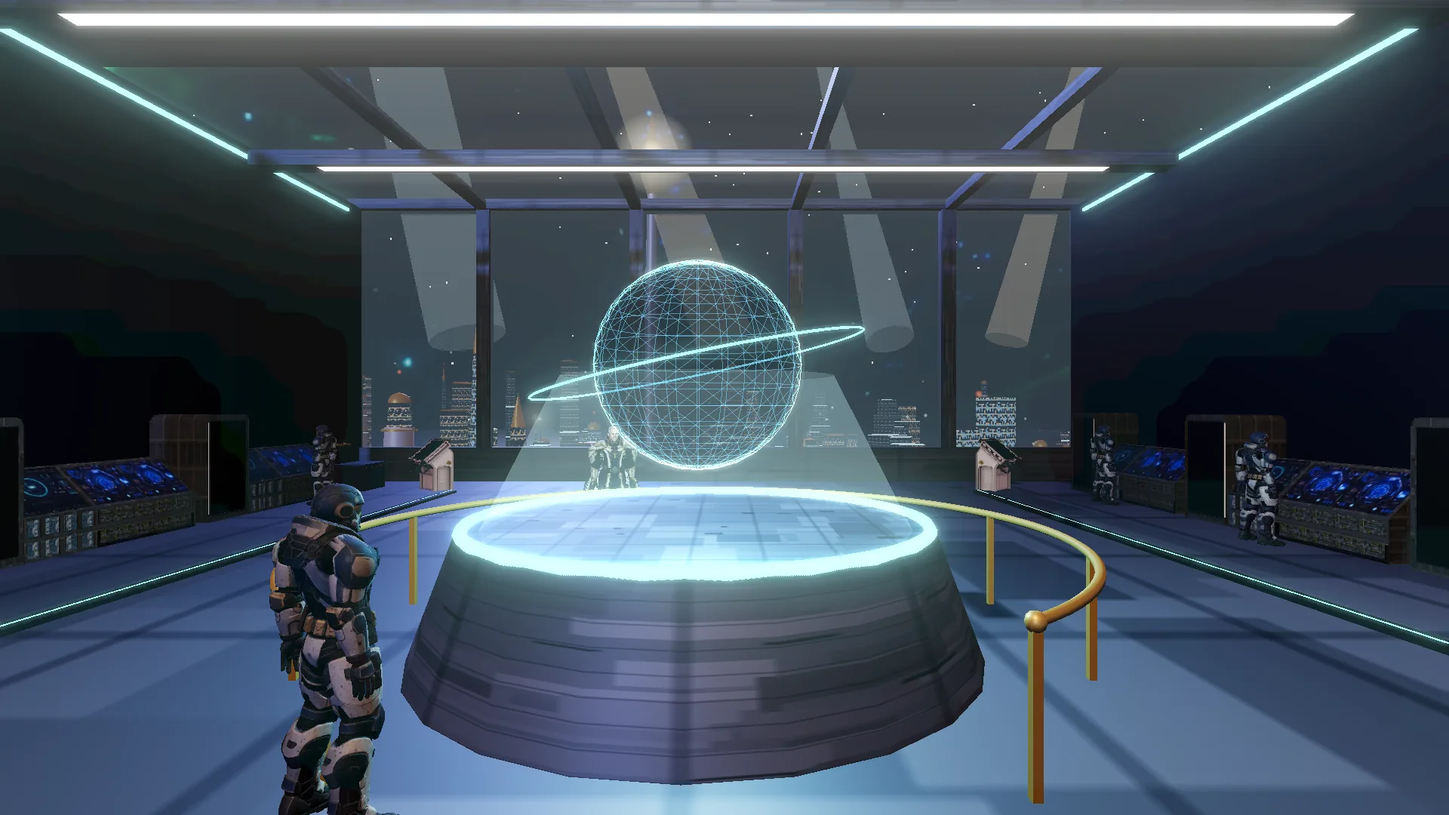
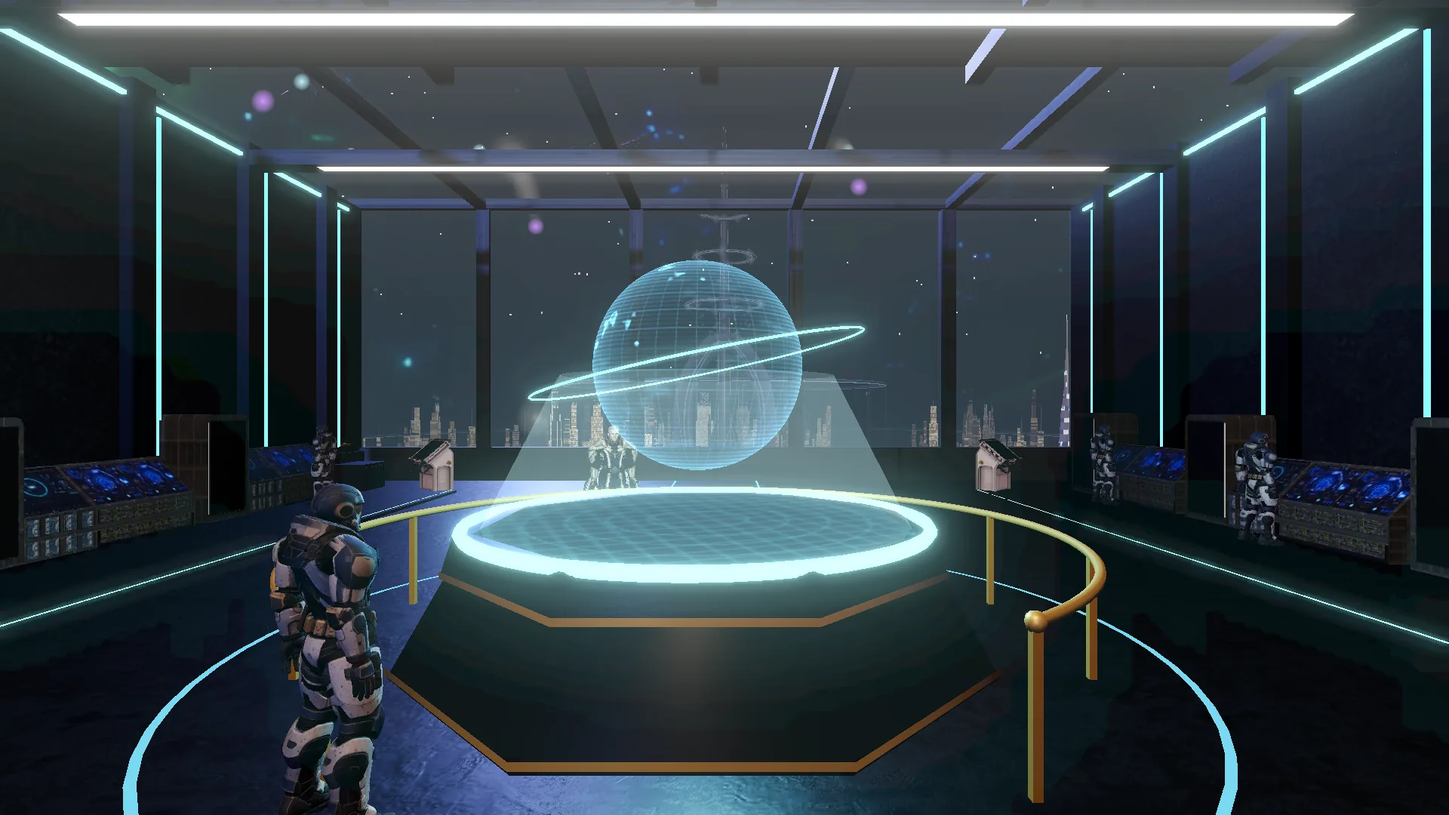
Command deck room overhaul and new briefing backdrop
The command room seen between missions is rebuilt: photo-metal deck
with light lines, ribbed walls with Keeper-blue light, a coffered
ceiling, a stepped octagonal holotable, and Elyra as a hologram in
place of the wireframe ball. The briefing backdrop every loading
screen uses is re-baked from the new room, with the real city and
Spear through the window.

Claude-Session: https://claude.ai/code/session_011EBjg3EFR7hNV2rmgHWN7i

diff --git a/js/origin/04-story.js b/js/origin/04-story.js
@@ -85,12 +85,33 @@ function buildDeck(){
   const metal=new THREE.MeshStandardMaterial({map:panelTex,color:C(0x8a96a8),roughness:.55,metalness:.5}),dark=new THREE.MeshStandardMaterial({color:C(0x1a2030),roughness:.6,metalness:.4});
   const gold=new THREE.MeshStandardMaterial({color:C(0xd9b25a),roughness:.3,metalness:.85}),cyan=new THREE.MeshBasicMaterial({color:C(0x7fe3ff).multiplyScalar(2),toneMapped:false});
   const box=(w,h,d,x,y,z,mat)=>{const m=new THREE.Mesh(new THREE.BoxGeometry(w,h,d),mat);m.position.set(X+x,y,z);m.castShadow=m.receiveShadow=true;G.add(m);return m;};
+  /* Nov 9 (Bryce: "the command room between missions hasn't changed"): the room rebuilt in the photo metals. A dark polished deck of
+     Metal015 plates with light lines set in it, walls of Metal039 panels between ribs with Keeper-blue light running up them, a
+     coffered ceiling, a stepped holotable with gold bands and a lit glass top, and Elyra as a hologram over it (its oceans, coasts and
+     cloud in light, scanlines, a bright rim) in place of the wireframe ball. The searchlight cones outside are gone (they read as grey
+     pipes through the glass). Same layout: everyone stands where they stood, the doors and consoles are where they were. */
+  const dtx=(n,rx,ry,srgb)=>{const t=new THREE.TextureLoader().load('img/tex/'+n+'-'+(coarse?'phone':'pc')+'.jpg');t.wrapS=t.wrapT=THREE.RepeatWrapping;t.repeat.set(rx,ry);t.anisotropy=8;if(srgb)t.encoding=THREE.sRGBEncoding;return t;};
+  const floorM=new THREE.MeshStandardMaterial({color:C(0x5a6272),map:dtx('metal015',7,5.5,1),normalMap:dtx('metal015-n',7,5.5),roughness:.32,metalness:.65});
+  const wallM=new THREE.MeshStandardMaterial({color:C(0x66707f),map:dtx('metal039',6,2,1),normalMap:dtx('metal039-n',6,2),roughness:.5,metalness:.55});
+  const ceilM=new THREE.MeshStandardMaterial({color:C(0x2a3040),map:dtx('metal039',5,5,1),normalMap:dtx('metal039-n',5,5),roughness:.55,metalness:.5});
+  const ribM=new THREE.MeshStandardMaterial({color:C(0x1a1f2a),roughness:.35,metalness:.8});
   // the room: floor, ceiling, back and side walls, and a tall window wall facing the bay
-  box(28,.4,22,0,-.2,0,metal);box(19,.4,22,-4.5,8.2,0,dark);   // the ceiling stops short of the window: the last 9 m is glass, so the sky shows over the city
+  box(28,.4,22,0,-.2,0,floorM);box(19,.4,22,-4.5,8.2,0,ceilM);   // the ceiling stops short of the window: the last 9 m is glass, so the sky shows over the city
   for(const z of[-7,-2.4,2.4,7])box(9,.25,.3,9.5,8.25,z,metal);{const sl=new THREE.Mesh(new THREE.PlaneGeometry(9,22),new THREE.MeshBasicMaterial({color:C(0x7fb6ff),transparent:true,opacity:.05,depthWrite:false,side:THREE.DoubleSide}));sl.rotation.x=Math.PI/2;sl.position.set(X+9.5,8.3,0);G.add(sl);}
-  box(.6,8.4,22,-14,4,0,dark);for(const z of[-11,11])box(28,8.4,.6,0,4,z,dark);
+  box(.6,8.4,22,-14,4,0,wallM);for(const z of[-11,11])box(28,8.4,.6,0,4,z,wallM);
   box(.6,1,22,14,.5,0,metal);box(.6,.3,22,14,8.3,0,metal);for(const z of[-7,-2.4,2.4,7])box(.4,8.4,.4,14,4.2,z,metal);
   for(const z of[-10.6,10.6])box(26,.08,.08,0,7.9,z,cyan);box(.08,.08,20,-13.6,7.9,0,cyan);
+  // ribs on the side and back walls with Keeper-blue light running up between them, a dark wainscot along the foot of every wall
+  {const strip=new THREE.MeshBasicMaterial({color:C(0x7fe3ff).multiplyScalar(1.3),toneMapped:false});
+   for(const z of[-10.62,10.62])for(let x=-12;x<=12;x+=3){if(Math.abs(x+8.75)<2.6&&z>0)continue;box(.5,8.2,.3,x,4.1,z,ribM);const l=box(.06,6.6,.05,x+.32,4.4,z-Math.sign(z)*.14,strip);l.castShadow=false;}
+   for(const z of[-10.2,5.2,8.5]){box(.3,8.2,.5,-13.62,4.1,z,ribM);}
+   for(const z of[-10.6,10.6])box(28,.9,.12,0,.45,z,ribM);box(.12,.9,22,-13.6,.45,0,ribM);
+   // the coffered ceiling: beams across between the light runs
+   for(let z=-9;z<=9;z+=4.5)box(19,.3,.3,-4.5,7.85,z,ribM);
+   // light lines in the deck: a ring round the table and two runs to the window
+   const fl=new THREE.MeshBasicMaterial({color:C(0x7fe3ff).multiplyScalar(.9),toneMapped:false});
+   const ring=new THREE.Mesh(new THREE.RingGeometry(4.1,4.16,64),fl);ring.rotation.x=-Math.PI/2;ring.position.set(X,.01,0);G.add(ring);
+   for(const z of[-1.2,1.2]){const r=new THREE.Mesh(new THREE.PlaneGeometry(9.6,.05),fl);r.rotation.x=-Math.PI/2;r.position.set(X+9,.01,z);G.add(r);}}
   // consoles along the side walls, with screens, and a Remnant emblem on the back wall
   const SIDE_DOOR={x:-8.75,z:11};   // (Oct 25) the second Keeper door, in the right-hand wall where the back console stood (no one worked it)
   const consoleParts=[];   // the code-built consoles: stand-ins until Bryce's supercomputers arrive (below), kept if the download fails
@@ -98,11 +119,30 @@ function buildDeck(){
   const emb=new THREE.Mesh(new THREE.TorusGeometry(1.6,.12,6,6),gold);emb.position.set(X-13.6,5,0);emb.rotation.y=Math.PI/2;G.add(emb);
   const glass=new THREE.Mesh(new THREE.PlaneGeometry(22,7.4),new THREE.MeshBasicMaterial({color:C(0x7fb6ff),transparent:true,opacity:.07,depthWrite:false}));glass.rotation.y=-Math.PI/2;glass.position.set(X+14,4.6,0);G.add(glass);
   // the holo table and the projection turning over it
-  const tbl=new THREE.Mesh(new THREE.CylinderGeometry(2.2,2.6,1.1,24),metal);tbl.position.set(X,.55,0);tbl.castShadow=true;G.add(tbl);
+  const tbl=new THREE.Mesh(new THREE.CylinderGeometry(2.25,2.7,.8,8),ribM);tbl.position.set(X,.4,0);tbl.rotation.y=Math.PI/8;tbl.castShadow=true;G.add(tbl);
+  {const t2=new THREE.Mesh(new THREE.CylinderGeometry(2.2,2.3,.32,8),wallM);t2.position.set(X,.96,0);t2.rotation.y=Math.PI/8;G.add(t2);
+   for(const [r,y] of[[2.72,.06],[2.31,.8]]){const b=new THREE.Mesh(new THREE.CylinderGeometry(r,r,.06,8,1,true),gold);b.position.set(X,y,0);b.rotation.y=Math.PI/8;G.add(b);}
+   const gt=document.createElement('canvas');gt.width=gt.height=256;const gx=gt.getContext('2d');gx.fillStyle='#02101a';gx.fillRect(0,0,256,256);gx.strokeStyle='rgba(127,227,255,.35)';gx.lineWidth=1;
+   for(let i=8;i<256;i+=16){gx.beginPath();gx.moveTo(i,0);gx.lineTo(i,256);gx.stroke();gx.beginPath();gx.moveTo(0,i);gx.lineTo(256,i);gx.stroke();}
+   for(let r=30;r<128;r+=24){gx.beginPath();gx.arc(128,128,r,0,7);gx.stroke();}
+   const top=new THREE.Mesh(new THREE.CircleGeometry(2.05,8),new THREE.MeshBasicMaterial({map:new THREE.CanvasTexture(gt),color:C(0x9fefff),toneMapped:false}));top.rotation.set(-Math.PI/2,0,Math.PI/8);top.position.set(X,1.125,0);G.add(top);}
   const rim=new THREE.Mesh(new THREE.TorusGeometry(2.15,.06,6,48),cyan);rim.rotation.x=Math.PI/2;rim.position.set(X,1.12,0);G.add(rim);
   const holo=new THREE.Group();holo.position.set(X,2.6,0);G.add(holo);
-  const pl=new THREE.Mesh(new THREE.SphereGeometry(1,24,16),new THREE.MeshBasicMaterial({color:C(0x7fd8ff),wireframe:true,transparent:true,opacity:.55,blending:THREE.AdditiveBlending,depthWrite:false,toneMapped:false}));holo.add(pl);
-  const core=new THREE.Mesh(new THREE.SphereGeometry(.96,24,16),new THREE.MeshBasicMaterial({color:C(0x0a1830),transparent:true,opacity:.7}));holo.add(core);
+  // Elyra in light: land and coast from noise on the sphere (no seam), cloud bands, scanlines, a bright rim. Its colour (pl.material.color)
+  // still turns red when the signal is lost
+  const holoU={col:{value:C(0x7fd8ff)},t:{value:0}};
+  const holoM=new THREE.ShaderMaterial({uniforms:holoU,transparent:true,depthWrite:false,blending:THREE.AdditiveBlending,
+    vertexShader:'varying vec3 vP;varying vec3 vN;varying vec3 vV;varying float vY;void main(){vP=position;vN=normalize(normalMatrix*normal);vec4 m=modelViewMatrix*vec4(position,1.);vV=normalize(-m.xyz);vY=(modelMatrix*vec4(position,1.)).y;gl_Position=projectionMatrix*m;}',
+    fragmentShader:'uniform vec3 col;uniform float t;varying vec3 vP;varying vec3 vN;varying vec3 vV;varying float vY;'+
+      'float h(vec3 p){p=fract(p*.3183099+.1);p*=17.;return fract(p.x*p.y*p.z*(p.x+p.y+p.z));}'+
+      'float n(vec3 x){vec3 i=floor(x),f=fract(x);f=f*f*(3.-2.*f);return mix(mix(mix(h(i),h(i+vec3(1,0,0)),f.x),mix(h(i+vec3(0,1,0)),h(i+vec3(1,1,0)),f.x),f.y),mix(mix(h(i+vec3(0,0,1)),h(i+vec3(1,0,1)),f.x),mix(h(i+vec3(0,1,1)),h(i+vec3(1,1,1)),f.x),f.y),f.z);}'+
+      'float fb(vec3 p){return .5*n(p)+.25*n(p*2.03)+.125*n(p*4.1)+.0625*n(p*8.3);}'+
+      'void main(){vec3 p=normalize(vP);float l=fb(p*2.6+4.);float land=smoothstep(.55,.57,l);float coast=smoothstep(.53,.56,l)-smoothstep(.56,.59,l);'+
+      'float cl=smoothstep(.55,.75,fb(p*vec3(3.,7.,3.)+vec3(t*.05,0.,0.)));float fr=pow(1.-abs(dot(normalize(vN),normalize(vV))),2.2);'+
+      'float sc=.75+.25*sin(vY*160.-t*4.);float grid=max(smoothstep(.985,1.,abs(sin(atan(p.z,p.x)*18.))),smoothstep(.985,1.,abs(sin(asin(p.y)*18.))))*.25;'+
+      'float k=(.04+land*.55+coast*1.6+cl*.16+grid*.5+fr*.9)*sc;gl_FragColor=vec4(col*k,1.);}'});
+  holoM.color=holoU.col.value;   // (the deck's animation sets pl.material.color)
+  const pl=new THREE.Mesh(new THREE.SphereGeometry(1,64,48),holoM);holo.add(pl);
   const orbit=new THREE.Mesh(new THREE.TorusGeometry(1.6,.012,4,64),cyan);orbit.rotation.x=Math.PI/2.3;holo.add(orbit);
   const blip=new THREE.Sprite(new THREE.SpriteMaterial({map:glow,color:C(0x8cf0b0).multiplyScalar(2.5),blending:THREE.AdditiveBlending,depthWrite:false,transparent:true}));blip.scale.setScalar(.35);holo.add(blip);
   // a waveform hangs over the table while the message plays
@@ -130,7 +170,7 @@ function buildDeck(){
      const k=.5+rng()*.8,w=rng();cc.set([k*(w<.2?1:.85),k*(w<.2?.85:.9),k],i*3);}
    const sg=new THREE.BufferGeometry();sg.setAttribute('position',new THREE.BufferAttribute(pp,3));sg.setAttribute('color',new THREE.BufferAttribute(cc,3));
    G.add(new THREE.Points(sg,new THREE.PointsMaterial({size:2.2,sizeAttenuation:false,vertexColors:true,transparent:true,opacity:.9,depthWrite:false,fog:false})));}
-  const lights=[];for(let i=0;i<5;i++){const b=new THREE.Mesh(new THREE.CylinderGeometry(2,26,700,16,1,true).translate(0,350,0),new THREE.MeshBasicMaterial({color:C(i%2?0x9fd8ff:0xffe0b0),transparent:true,opacity:.07,blending:THREE.AdditiveBlending,depthWrite:false,side:THREE.DoubleSide,fog:false}));
+  const lights=[];if(false)for(let i=0;i<5;i++){const b=new THREE.Mesh(new THREE.CylinderGeometry(2,26,700,16,1,true).translate(0,350,0),new THREE.MeshBasicMaterial({color:C(i%2?0x9fd8ff:0xffe0b0),transparent:true,opacity:.07,blending:THREE.AdditiveBlending,depthWrite:false,side:THREE.DoubleSide,fog:false}));
     b.position.set(X+340+i*130,40+i*12,(i-2)*180);G.add(b);lights.push({b,ph:i*1.3,sp:.18+i*.04});}
   const sea=new THREE.Mesh(new THREE.PlaneGeometry(12000,12000),new THREE.MeshStandardMaterial({color:C(0x06101e),roughness:.2,metalness:.75}));sea.rotation.x=-Math.PI/2;sea.position.set(X+3000,CY-1,0);G.add(sea);
   if(!SPR){const sp=new THREE.Group();sp.position.set(X+560,-120,-60);G.add(sp);
@@ -203,7 +243,7 @@ function deckScene(){
   if(!deck)deck=buildDeck();deck.G.visible=true;setNight(true);
   for(const A of ALLIES)A.on=false;P.H.root.visible=true;reviveHuman(P.H);P.H.crouchTo=P.H.crouch=0;P.pos.set(DECK.x-.4,0,2.9);P.H.root.rotation.y=Math.atan2(.4,2.9);
   const D=deck;let ang=0;D.lost=false;D.red=0;D.talk=0;
-  return(t,dt)=>{ang+=dt*.3;D.pl.rotation.y=ang;D.orbit.rotation.z=ang*.5;
+  return(t,dt)=>{ang+=dt*.3;D.pl.rotation.y=ang;if(D.pl.material.uniforms)D.pl.material.uniforms.t.value=t;D.orbit.rotation.z=ang*.5;
     const a=ang*2.2;D.blip.position.set(Math.cos(a)*1.6,Math.sin(a)*.6,Math.sin(a)*1.6);D.blip.material.opacity=D.lost?0:.6+.4*Math.sin(t*9);
     D.wave.visible=D.talk>0;if(D.talk>0)D.bars.forEach((b,i)=>{b.scale.y=.1+Math.abs(Math.sin(t*14+i*.9))*(.4+.6*Math.random())*D.talk;});
     D.pl.material.color.copy(C(0x7fd8ff)).lerp(C(0xff5a2a),D.red);D.lamp.color.copy(C(0x7fe3ff)).lerp(C(0xff7a4a),D.red);

diff --git a/tide-city.html b/tide-city.html
@@ -111,7 +111,7 @@ body{touch-action:none;user-select:none;-webkit-user-select:none;-webkit-touch-c
 </head>
 <body>
 <!-- covers the page with the Keeper Command still until the briefing (js/shared/progress.js) takes over, so the HUD never flashes up first -->
-<div id="boot" style="position:fixed;inset:0;z-index:99;background:#03050a center/cover no-repeat"><script>(function(){var b=document.getElementById('boot'),ph=matchMedia('(pointer:coarse)').matches,q=location.search,sq=false;try{sq=/[?&]part=sky\b/.test(q)&&(/[?&]seq=1\b/.test(q)||(/[?&]campaign=/.test(q)&&sessionStorage.getItem('elyra.chain')==='tide'));}catch(_){}if(sq){b.style.background='#000';b.innerHTML='<div style="position:absolute;left:50%;top:38%;transform:translate(-50%,-50%);width:min(680px,calc(100vw - 48px));text-align:center;color:#f3eef8;font:700 clamp(22px,4.4vw,40px)/1.2 VG Display,Arial Narrow,system-ui,sans-serif;letter-spacing:.14em;text-transform:uppercase"><small style="display:block;font:400 clamp(11px,1.6vw,13px) monospace;letter-spacing:.26em;color:rgba(236,226,246,.75);margin-bottom:8px">Elyra</small>Tide City</div>';}else b.style.backgroundImage='url(img/hq-loading-'+(ph?'phone':'pc')+'.webp)';setTimeout(function(){if(b.parentNode)b.remove();},30000);})();</script></div>
+<div id="boot" style="position:fixed;inset:0;z-index:99;background:#03050a center/cover no-repeat"><script>(function(){var b=document.getElementById('boot'),ph=matchMedia('(pointer:coarse)').matches,q=location.search,sq=false;try{sq=/[?&]part=sky\b/.test(q)&&(/[?&]seq=1\b/.test(q)||(/[?&]campaign=/.test(q)&&sessionStorage.getItem('elyra.chain')==='tide'));}catch(_){}if(sq){b.style.background='#000';b.innerHTML='<div style="position:absolute;left:50%;top:38%;transform:translate(-50%,-50%);width:min(680px,calc(100vw - 48px));text-align:center;color:#f3eef8;font:700 clamp(22px,4.4vw,40px)/1.2 VG Display,Arial Narrow,system-ui,sans-serif;letter-spacing:.14em;text-transform:uppercase"><small style="display:block;font:400 clamp(11px,1.6vw,13px) monospace;letter-spacing:.26em;color:rgba(236,226,246,.75);margin-bottom:8px">Elyra</small>Tide City</div>';}else b.style.backgroundImage='url(img/hq-loading-'+(ph?'phone':'pc')+'.webp?v=2)';setTimeout(function(){if(b.parentNode)b.remove();},30000);})();</script></div>
 <div id="app"></div>
 <div class="hud brand"><b>THE FIRST WORD</b><span>Last Transmission · Level 06 · Elyra</span></div>
 <div class="hud compass"><div class="strip" id="strip"></div><i class="needle"></i></div>

diff --git a/space.html b/space.html
@@ -102,7 +102,7 @@ body{touch-action:none;user-select:none;-webkit-user-select:none;-webkit-touch-c
 </head>
 <body>
 <!-- covers the page with the Keeper Command still until the briefing (js/shared/progress.js) takes over, so the HUD never flashes up first -->
-<div id="boot" style="position:fixed;inset:0;z-index:99;background:#03050a center/cover no-repeat"><script>(function(){var b=document.getElementById('boot'),ph=matchMedia('(pointer:coarse)').matches,q=location.search,sq=false;try{sq=true&&(/[?&]seq=1\b/.test(q)||(/[?&]campaign=/.test(q)&&sessionStorage.getItem('elyra.chain')==='astraea'));}catch(_){}if(sq){b.style.background='#000';b.innerHTML='<div style="position:absolute;left:50%;top:38%;transform:translate(-50%,-50%);width:min(680px,calc(100vw - 48px));text-align:center;color:#f3eef8;font:700 clamp(22px,4.4vw,40px)/1.2 VG Display,Arial Narrow,system-ui,sans-serif;letter-spacing:.14em;text-transform:uppercase"><small style="display:block;font:400 clamp(11px,1.6vw,13px) monospace;letter-spacing:.26em;color:rgba(236,226,246,.75);margin-bottom:8px">Meanwhile</small>Astraea</div>';}else b.style.backgroundImage='url(img/hq-loading-'+(ph?'phone':'pc')+'.webp)';setTimeout(function(){if(b.parentNode)b.remove();},30000);})();</script></div>
+<div id="boot" style="position:fixed;inset:0;z-index:99;background:#03050a center/cover no-repeat"><script>(function(){var b=document.getElementById('boot'),ph=matchMedia('(pointer:coarse)').matches,q=location.search,sq=false;try{sq=true&&(/[?&]seq=1\b/.test(q)||(/[?&]campaign=/.test(q)&&sessionStorage.getItem('elyra.chain')==='astraea'));}catch(_){}if(sq){b.style.background='#000';b.innerHTML='<div style="position:absolute;left:50%;top:38%;transform:translate(-50%,-50%);width:min(680px,calc(100vw - 48px));text-align:center;color:#f3eef8;font:700 clamp(22px,4.4vw,40px)/1.2 VG Display,Arial Narrow,system-ui,sans-serif;letter-spacing:.14em;text-transform:uppercase"><small style="display:block;font:400 clamp(11px,1.6vw,13px) monospace;letter-spacing:.26em;color:rgba(236,226,246,.75);margin-bottom:8px">Meanwhile</small>Astraea</div>';}else b.style.backgroundImage='url(img/hq-loading-'+(ph?'phone':'pc')+'.webp?v=2)';setTimeout(function(){if(b.parentNode)b.remove();},30000);})();</script></div>
 <div id="app"></div>
 <div class="hud brand"><b>THE FIRST WORD</b><span>Last Transmission · Level 06 · Astraea</span></div>
 <div class="hud wave"><b id="waveT">ASTRAEA ORBIT</b><span id="waveS">Form up on the Vigil</span></div>

diff --git a/js/shared/progress.js b/js/shared/progress.js
@@ -428,7 +428,7 @@ void main(){
       const z=1.13-(still?0:.05*Math.min(1,t/40)*(2-Math.min(1,t/40)));
       gl.uniform2f(U.C,cx,cy);gl.uniform1f(U.Z,z);gl.uniform1f(U.t,still?0:t);gl.uniform1f(U.M,Math.min(1,t/1.5));
       gl.drawArrays(gl.TRIANGLES,0,3);if(t<.2)cv.classList.add('on');raf=requestAnimationFrame(frame);};
-    Promise.all([tex(0,src),tex(1,'img/hq-loading-depth.png')]).then(()=>{if(dead)return;size();host.querySelector('.bg').after(cv);raf=requestAnimationFrame(frame);})
+    Promise.all([tex(0,src),tex(1,'img/hq-loading-depth.png?v=2')]).then(()=>{if(dead)return;size();host.querySelector('.bg').after(cv);raf=requestAnimationFrame(frame);})
       .catch(e=>console.warn('hq live',e));
     /* Oct 25 (the lag spike half a second into every level, and between Pathfinder's arcs): loseContext() made the browser tear the
        loading screen's GL context down on the spot, and the game's own context waited on it. Now it is only shrunk to 1 px and dropped:
@@ -674,7 +674,7 @@ void main(){
     {const bt=document.getElementById('boot');if(bt)setTimeout(()=>bt.remove(),60);}   // the static cover the page opened with
     // Keeper Command, rendered from the game's own deck (re-rendered Oct 25 with the Meshy cast: the officers, Elias, the Keeper guards); the phone gets the smaller file.
     // The still sits underneath; hqLive lays the moving 2.5D version over it once both textures are in.
-    const hqSrc=`img/hq-loading-${touch?'phone':'pc'}.webp`;
+    const hqSrc=`img/hq-loading-${touch?'phone':'pc'}.webp?v=2`;
     if(!seq)el.querySelector('.bg').style.backgroundImage=`url(${hqSrc})`;
     const stop=seq?()=>{}:hqLive(el,hqSrc);
     let other=false;if(!seq)el.querySelector('.sw').addEventListener('click',()=>{other=!other;const ph=other?!touch:touch;el.querySelector('.hd b').textContent='CONTROLS · '+(ph?'PHONE':'PC');

diff --git a/origin.html b/origin.html
@@ -134,7 +134,7 @@ body.glitch #app::after{content:"";position:fixed;inset:0;pointer-events:none;ba
 </head>
 <body>
 <!-- covers the page with the Keeper Command still until the briefing (js/shared/progress.js) takes over, so the HUD never flashes up first -->
-<div id="boot" style="position:fixed;inset:0;z-index:99;background:#03050a center/cover no-repeat"><script>(function(){var b=document.getElementById('boot'),ph=matchMedia('(pointer:coarse)').matches;b.style.backgroundImage='url(img/hq-loading-'+(ph?'phone':'pc')+'.webp)';setTimeout(function(){if(b.parentNode)b.remove();},30000);})();</script></div>
+<div id="boot" style="position:fixed;inset:0;z-index:99;background:#03050a center/cover no-repeat"><script>(function(){var b=document.getElementById('boot'),ph=matchMedia('(pointer:coarse)').matches;b.style.backgroundImage='url(img/hq-loading-'+(ph?'phone':'pc')+'.webp?v=2)';setTimeout(function(){if(b.parentNode)b.remove();},30000);})();</script></div>
 <div id="app"></div>
 <div class="hud brand"><b>THE MOUNTAIN</b><span>Last Transmission · Level 04 · Elyra</span></div>
 <div class="scope" id="scope"></div>
@@ -195,7 +195,7 @@ addEventListener('error',e=>{if(document.getElementById('loadErr'))return;const 
 <script src="js/origin/03-play.js?v=1911090001"></script>
 <script src="js/shared/cutscene.js?v=1909110000"></script>
 <script src="js/shared/skyline.js?v=1796500000"></script>
-<script src="js/origin/04-story.js?v=1910000000"></script>
+<script src="js/origin/04-story.js?v=1910100000"></script>
 <script src="js/shared/leviathan.js?v=1808000000"></script>
 <script src="js/origin/06-below.js?v=1809600000"></script>
 <script src="js/shared/grade.js?v=1910000000"></script>

diff --git a/last-signal.html b/last-signal.html
@@ -134,7 +134,7 @@ body.glitch #app::after{content:"";position:fixed;inset:0;pointer-events:none;ba
 </head>
 <body>
 <!-- covers the page with the Keeper Command still until the briefing (js/shared/progress.js) takes over, so the HUD never flashes up first -->
-<div id="boot" style="position:fixed;inset:0;z-index:99;background:#03050a center/cover no-repeat"><script>(function(){var b=document.getElementById('boot'),ph=matchMedia('(pointer:coarse)').matches;b.style.backgroundImage='url(img/hq-loading-'+(ph?'phone':'pc')+'.webp)';setTimeout(function(){if(b.parentNode)b.remove();},30000);})();</script></div>
+<div id="boot" style="position:fixed;inset:0;z-index:99;background:#03050a center/cover no-repeat"><script>(function(){var b=document.getElementById('boot'),ph=matchMedia('(pointer:coarse)').matches;b.style.backgroundImage='url(img/hq-loading-'+(ph?'phone':'pc')+'.webp?v=2)';setTimeout(function(){if(b.parentNode)b.remove();},30000);})();</script></div>
 <div id="app"></div>
 <div class="hud brand"><b>THE LAST SIGNAL</b><span>Last Transmission · Level 05 · Elyra</span></div>
 <div class="scope" id="scope"></div>

diff --git a/pathfinder-3.html b/pathfinder-3.html
@@ -134,7 +134,7 @@ body.glitch #app::after{content:"";position:fixed;inset:0;pointer-events:none;ba
 </head>
 <body>
 <!-- covers the page with the Keeper Command still until the briefing (js/shared/progress.js) takes over, so the HUD never flashes up first -->
-<div id="boot" style="position:fixed;inset:0;z-index:99;background:#03050a center/cover no-repeat"><script>(function(){var b=document.getElementById('boot'),ph=matchMedia('(pointer:coarse)').matches;b.style.backgroundImage='url(img/hq-loading-'+(ph?'phone':'pc')+'.webp)';setTimeout(function(){if(b.parentNode)b.remove();},30000);})();</script></div>
+<div id="boot" style="position:fixed;inset:0;z-index:99;background:#03050a center/cover no-repeat"><script>(function(){var b=document.getElementById('boot'),ph=matchMedia('(pointer:coarse)').matches;b.style.backgroundImage='url(img/hq-loading-'+(ph?'phone':'pc')+'.webp?v=2)';setTimeout(function(){if(b.parentNode)b.remove();},30000);})();</script></div>
 <div id="app"></div>
 <div class="hud brand"><b>THE WHITE CITY</b><span>Pathfinder · Level 03 · Astraea</span></div>
 <div class="scope" id="scope"></div>

diff --git a/pathfinder-2.html b/pathfinder-2.html
@@ -134,7 +134,7 @@ body.glitch #app::after{content:"";position:fixed;inset:0;pointer-events:none;ba
 </head>
 <body>
 <!-- covers the page with the Keeper Command still until the briefing (js/shared/progress.js) takes over, so the HUD never flashes up first -->
-<div id="boot" style="position:fixed;inset:0;z-index:99;background:#03050a center/cover no-repeat"><script>(function(){var b=document.getElementById('boot'),ph=matchMedia('(pointer:coarse)').matches;b.style.backgroundImage='url(img/hq-loading-'+(ph?'phone':'pc')+'.webp)';setTimeout(function(){if(b.parentNode)b.remove();},30000);})();</script></div>
+<div id="boot" style="position:fixed;inset:0;z-index:99;background:#03050a center/cover no-repeat"><script>(function(){var b=document.getElementById('boot'),ph=matchMedia('(pointer:coarse)').matches;b.style.backgroundImage='url(img/hq-loading-'+(ph?'phone':'pc')+'.webp?v=2)';setTimeout(function(){if(b.parentNode)b.remove();},30000);})();</script></div>
 <div id="app"></div>
 <div class="hud brand"><b>DEAD GROUND</b><span>Pathfinder · Level 02 · Astraea</span></div>
 <div class="scope" id="scope"></div>

diff --git a/market.html b/market.html
@@ -134,7 +134,7 @@ body.glitch #app::after{content:"";position:fixed;inset:0;pointer-events:none;ba
 </head>
 <body>
 <!-- covers the page with the Keeper Command still until the briefing (js/shared/progress.js) takes over, so the HUD never flashes up first -->
-<div id="boot" style="position:fixed;inset:0;z-index:99;background:#03050a center/cover no-repeat"><script>(function(){var b=document.getElementById('boot'),ph=matchMedia('(pointer:coarse)').matches;b.style.backgroundImage='url(img/hq-loading-'+(ph?'phone':'pc')+'.webp)';setTimeout(function(){if(b.parentNode)b.remove();},30000);})();</script></div>
+<div id="boot" style="position:fixed;inset:0;z-index:99;background:#03050a center/cover no-repeat"><script>(function(){var b=document.getElementById('boot'),ph=matchMedia('(pointer:coarse)').matches;b.style.backgroundImage='url(img/hq-loading-'+(ph?'phone':'pc')+'.webp?v=2)';setTimeout(function(){if(b.parentNode)b.remove();},30000);})();</script></div>
 <div id="app"></div>
 <div class="hud brand"><b>MIDNIGHT MARKET</b><span>TakeOver · Team deathmatch</span></div>
 <div class="scope" id="scope"></div>

diff --git a/harbour.html b/harbour.html
@@ -134,7 +134,7 @@ body.glitch #app::after{content:"";position:fixed;inset:0;pointer-events:none;ba
 </head>
 <body>
 <!-- covers the page with the Keeper Command still until the briefing (js/shared/progress.js) takes over, so the HUD never flashes up first -->
-<div id="boot" style="position:fixed;inset:0;z-index:99;background:#03050a center/cover no-repeat"><script>(function(){var b=document.getElementById('boot'),ph=matchMedia('(pointer:coarse)').matches;b.style.backgroundImage='url(img/hq-loading-'+(ph?'phone':'pc')+'.webp)';setTimeout(function(){if(b.parentNode)b.remove();},30000);})();</script></div>
+<div id="boot" style="position:fixed;inset:0;z-index:99;background:#03050a center/cover no-repeat"><script>(function(){var b=document.getElementById('boot'),ph=matchMedia('(pointer:coarse)').matches;b.style.backgroundImage='url(img/hq-loading-'+(ph?'phone':'pc')+'.webp?v=2)';setTimeout(function(){if(b.parentNode)b.remove();},30000);})();</script></div>
 <div id="app"></div>
 <div class="hud brand"><b>VIGIL HARBOUR</b><span>TakeOver · Team deathmatch</span></div>
 <div class="scope" id="scope"></div>

diff --git a/multiplayer.html b/multiplayer.html
@@ -133,7 +133,7 @@ body.glitch #app::after{content:"";position:fixed;inset:0;pointer-events:none;ba
 </head>
 <body>
 <!-- covers the page with the Keeper Command still until the briefing (js/shared/progress.js) takes over, so the HUD never flashes up first -->
-<div id="boot" style="position:fixed;inset:0;z-index:99;background:#03050a center/cover no-repeat"><script>(function(){var b=document.getElementById('boot'),ph=matchMedia('(pointer:coarse)').matches;b.style.backgroundImage='url(img/hq-loading-'+(ph?'phone':'pc')+'.webp)';setTimeout(function(){if(b.parentNode)b.remove();},30000);})();</script></div>
+<div id="boot" style="position:fixed;inset:0;z-index:99;background:#03050a center/cover no-repeat"><script>(function(){var b=document.getElementById('boot'),ph=matchMedia('(pointer:coarse)').matches;b.style.backgroundImage='url(img/hq-loading-'+(ph?'phone':'pc')+'.webp?v=2)';setTimeout(function(){if(b.parentNode)b.remove();},30000);})();</script></div>
 <div id="app"></div>
 <div class="hud brand"><b>GILDED SHORE</b><span>TakeOver · Team deathmatch</span></div>
 <div class="scope" id="scope"></div>

diff --git a/spire.html b/spire.html
@@ -134,7 +134,7 @@ body.glitch #app::after{content:"";position:fixed;inset:0;pointer-events:none;ba
 </head>
 <body>
 <!-- covers the page with the Keeper Command still until the briefing (js/shared/progress.js) takes over, so the HUD never flashes up first -->
-<div id="boot" style="position:fixed;inset:0;z-index:99;background:#03050a center/cover no-repeat"><script>(function(){var b=document.getElementById('boot'),ph=matchMedia('(pointer:coarse)').matches;b.style.backgroundImage='url(img/hq-loading-'+(ph?'phone':'pc')+'.webp)';setTimeout(function(){if(b.parentNode)b.remove();},30000);})();</script></div>
+<div id="boot" style="position:fixed;inset:0;z-index:99;background:#03050a center/cover no-repeat"><script>(function(){var b=document.getElementById('boot'),ph=matchMedia('(pointer:coarse)').matches;b.style.backgroundImage='url(img/hq-loading-'+(ph?'phone':'pc')+'.webp?v=2)';setTimeout(function(){if(b.parentNode)b.remove();},30000);})();</script></div>
 <div id="app"></div>
 <div class="hud brand"><b>FALLEN SPIRE</b><span>TakeOver · Team deathmatch</span></div>
 <div class="scope" id="scope"></div>
